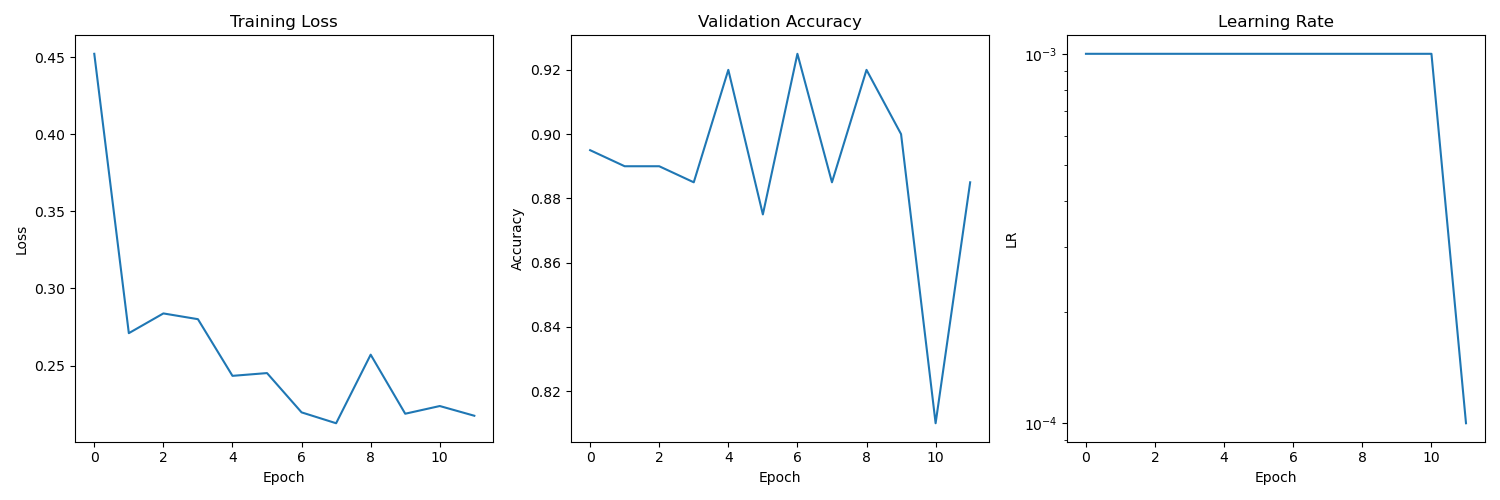
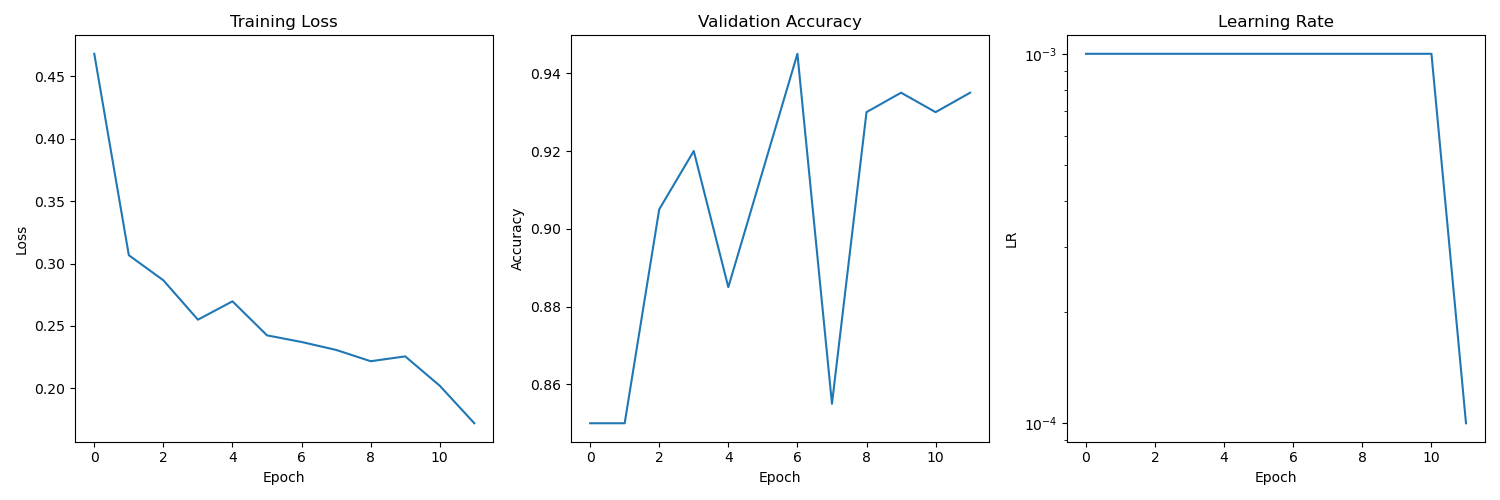
[Classification Man Women] Update file and train again

diff --git a/classification_man_women/train_cnn_resnet34.py b/classification_man_women/train_cnn_resnet34.py
@@ -19,6 +19,7 @@ class Config:
     lr = 0.001  # Learning rate
     num_classes = 2  # 0=man, 1=woman
     device = torch.device("cuda" if torch.cuda.is_available() else "cpu")
+    print(f'Using device: {device}')
 
 # Custom padding function
 def pad_to_square(img):
@@ -196,6 +197,16 @@ def plot_history(history):
 
 # 6. Main Execution
 if __name__ == "__main__":
+    # Cek device
+    print(f"Device: {Config.device}")
+
+    if torch.cuda.is_available():
+        print(f"GPU Detected: {torch.cuda.get_device_name(0)}")
+        print(f"CUDA Version: {torch.version.cuda}")
+        print(f"Total GPUs Available: {torch.cuda.device_count()}")
+    else:
+        print("No GPU detected. Using CPU.")
+
     # Initialize
     train_loader, test_loader, class_names = prepare_data()
     print(f"Class mapping: {class_names} -> {list(range(len(class_names)))}")

diff --git a/classification_man_women/validasi_cnn_resnet34.py b/classification_man_women/validasi_cnn_resnet34.py
@@ -12,7 +12,7 @@ model.fc = nn.Sequential(
 
 # 2. Load State Dict
 try:
-    state_dict = torch.load("checkpoints/best_model3.pth", weights_only=True)
+    state_dict = torch.load("checkpoints/best_model4.pth", weights_only=True)
     model.load_state_dict(state_dict)
 except Exception as e:
     print(f"Error loading model: {e}")

diff --git a/classification_man_women/README.md b/classification_man_women/README.md
@@ -1,4 +1,8 @@
 ## Implementation
 
-1. Convolutional Neural Network (CNN) berbasis arsitektur ResNet34 , dan merupakan bentuk dari Deep Learning atau bagian dari Artificial Neural Network (ANN) . [Result: 92.5%]
+1. Convolutional Neural Network (CNN) berbasis arsitektur ResNet34 , dan merupakan bentuk dari Deep Learning atau bagian dari Artificial Neural Network (ANN).
+```
+Result: 92.5% (best_model3.pth)
+Result: 94.5% (best_model4.pth)
+```
 2. ???
